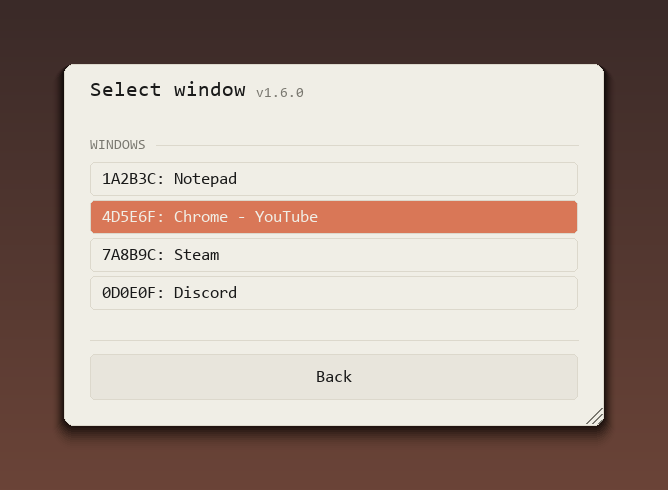
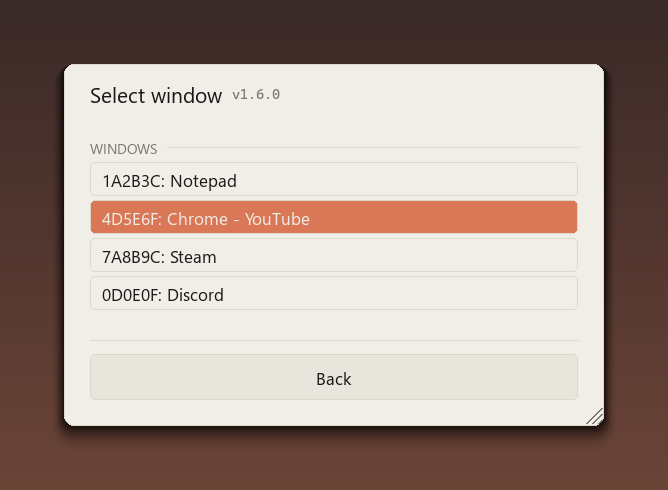
fonts: the menu asks for the monospaced face where it reads out
The split by role went in with fonts.py and the HUD took the monospaced
face whole, but the MENU never asked for it: _build_fonts requested three
sizes and got the proportional one for all of them. So the numbers the
split exists for - fps, resolutions, parameter values, the version, the key
captions - were proportional, and digits shifted sideways as they changed.

Five readings take the monospaced face now: the stats block, a slider's
value, a hotkey's key field, the version after the title, and the key
caption on the DLSS 5 switch (which was glued into the label string and is
passed separately now).

_load() tolerates a one-argument loader, so the offscreen renderers and the
tests keep working.

The docs renderer was building Consolas by hand, so every shipped
screenshot showed typography the program no longer has. It uses fonts.load
now - the screenshots are regenerated and the second line of the
skip-static hint is no longer clipped: the proportional face fits it.

63 checks green, GUI cycle clean.

diff --git a/overlay_ui.py b/overlay_ui.py
@@ -347,16 +347,36 @@ class OverlayMenu:
             elif k in self.state:
                 self.state[k] = v
 
+    def _load(self, size: int, mono: bool = False):
+        """One face, through the loader the caller handed us.
+
+        The live app passes display._load_font, which takes the role; the
+        offscreen renderers and the tests pass a one-argument callable, and
+        those get the proportional face for everything - which is what they
+        had before the split.
+        """
+        try:
+            return self._load_font(size, mono=mono)
+        except TypeError:
+            return self._load_font(size)
+
     def _build_fonts(self) -> None:
-        """The menu's three faces, built together.
+        """The menu's faces, built together.
 
         Called from __init__ and after every scale/language change - the
         sizes and the language both change what the loader returns. Which
         faces those are lives in fonts.py; this only asks for them.
+
+        Two roles, as fonts.py divides them: the proportional face carries
+        language - titles, labels, hints, buttons - and the monospaced one
+        carries readings, where a fixed advance keeps digits from dancing
+        sideways as they change.
         """
-        self._font = self._load_font(self._u(FONT_SIZE))
-        self._title_font = self._load_font(self._u(TITLE_SIZE))
-        self._small_font = self._load_font(self._u(SMALL_SIZE))
+        self._font = self._load(self._u(FONT_SIZE))
+        self._title_font = self._load(self._u(TITLE_SIZE))
+        self._small_font = self._load(self._u(SMALL_SIZE))
+        self._mono = self._load(self._u(FONT_SIZE), mono=True)
+        self._mono_small = self._load(self._u(SMALL_SIZE), mono=True)
 
     def _reload_fonts(self) -> None:
         """Recreate the fonts after a language switch.
@@ -510,9 +530,10 @@ class OverlayMenu:
                                      "labels": list(labels or options)}))
             cy += ctrl_h + gap
 
-        def toggle(key: str, label: str, on: bool, hint: str = "") -> None:
+        def toggle(key: str, label: str, on: bool, hint: str = "",
+                   key_text: str = "") -> None:
             nonlocal cy
-            extra = {"label": label}
+            extra = {"label": label, "key_text": key_text}
             hint_h = 0
             if hint:
                 extra["hint"] = hint
@@ -642,8 +663,8 @@ class OverlayMenu:
             section(s["sec_processing"])
             nr_on = bool(self.state.get("nr"))
             hk_nr = self.hotkeys.get("toggle", "")
-            toggle("nr", f"{s['nr_on'] if nr_on else s['nr_off']}   {hk_nr}".rstrip(),
-                   nr_on)
+            toggle("nr", s["nr_on"] if nr_on else s["nr_off"], nr_on,
+                   key_text=hk_nr)
 
             # The resolution the network runs at sits right under the
             # DLSS 5 switch, not in a section of its own further down:
@@ -1291,7 +1312,7 @@ class OverlayMenu:
         # 2026-09-08).
         ver = self.state.get("version") or ""
         if ver:
-            ver_text = self._small_font.render(f"v{ver}", True,
+            ver_text = self._mono_small.render(f"v{ver}", True,
                                                _rgb(self.c["muted"]))
             surface.blit(ver_text, (r.x + pad + title.get_width() + self._u(10),
                                     r.y + self._u(22)))
@@ -1423,8 +1444,8 @@ class OverlayMenu:
             y = rect.y + pad + ri * self._u(STAT_LINE_H)
             for ci, (name, value) in enumerate(row):
                 cx = rect.x + pad + ci * cell
-                k = self._small_font.render(name, True, _rgb(self.c["muted"]))
-                v = self._small_font.render(value, True, _rgb(self.c["accent"]))
+                k = self._mono_small.render(name, True, _rgb(self.c["muted"]))
+                v = self._mono_small.render(value, True, _rgb(self.c["accent"]))
                 surface.blit(k, (cx, y))
                 surface.blit(v, (cx + k.get_width() + self._u(6), y))
 
@@ -1515,11 +1536,25 @@ class OverlayMenu:
         text = item.extra.get("label")
         if not text:
             text = s["nr_on"] if on else s["nr_off"]
+        # The key caption is a reading, not language: it takes the
+        # monospaced face and sits after the label, so "Num1" here matches
+        # the key fields on the settings page.
+        key_text = item.extra.get("key_text") or ""
+        key_img = (self._mono.render(key_text, True, _rgb(self.c["muted"]))
+                   if key_text else None)
+        room = item.rect.right - box.right - self._u(12)
+        if key_img is not None:
+            room -= key_img.get_width() + self._u(12)
         label = self._clip(self._font, text,
                            _rgb(self.c["text"] if on else self.c["muted"]),
-                           item.rect.right - box.right - self._u(12))
+                           room)
         surface.blit(label, (box.right + self._u(12),
                              box.y + (box.h - label.get_height()) // 2))
+        if key_img is not None:
+            surface.blit(key_img,
+                         (box.right + self._u(12) + label.get_width()
+                          + self._u(12),
+                          box.y + (box.h - key_img.get_height()) // 2))
         if hint:
             y = box.bottom + self._u(8)
             for line in str(hint).split("\n"):
@@ -1534,7 +1569,7 @@ class OverlayMenu:
         # The value sits on the label line, right-aligned; a long localized
         # label (FR: "Résolution de traitement du réseau") would run under
         # it - clip the label to the space left of the value instead.
-        val = self._font.render(value_text, True, _rgb(self.c["accent"]))
+        val = self._mono.render(value_text, True, _rgb(self.c["accent"]))
         label_max = item.rect.right - val.get_width() - self._u(12) - item.rect.x
         label = self._clip(self._font, item.extra.get("label", item.key),
                            _rgb(self.c["text"]), label_max)
@@ -1828,8 +1863,8 @@ class OverlayMenu:
             pygame.draw.rect(surface,
                              _rgb(self.c["accent"] if hot else self.c["border"]),
                              field, self._u(1), border_radius=radius)
-            txt = self._small_font.render(str(item.extra.get("key", "—")), True,
-                                          _rgb(self.c["text"]))
+            txt = self._mono_small.render(str(item.extra.get("key", "—")),
+                                          True, _rgb(self.c["text"]))
         surface.blit(txt, (field.centerx - txt.get_width() // 2,
                            field.centery - txt.get_height() // 2))
         item.extra["field"] = field
